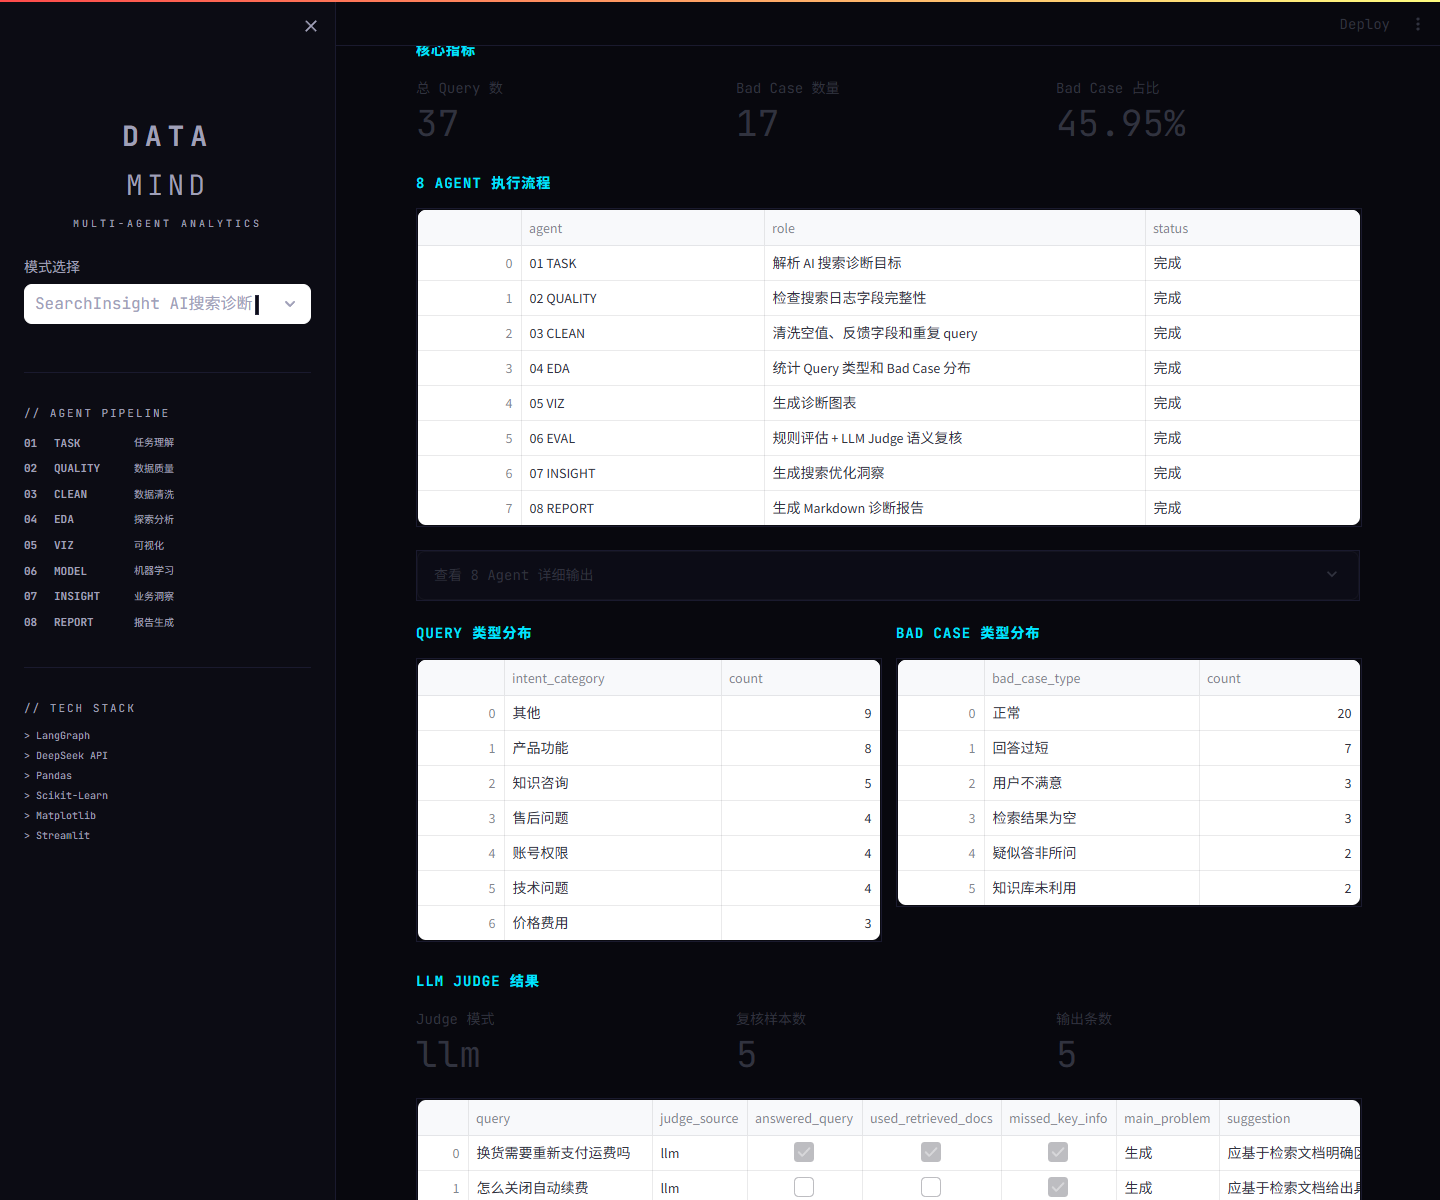
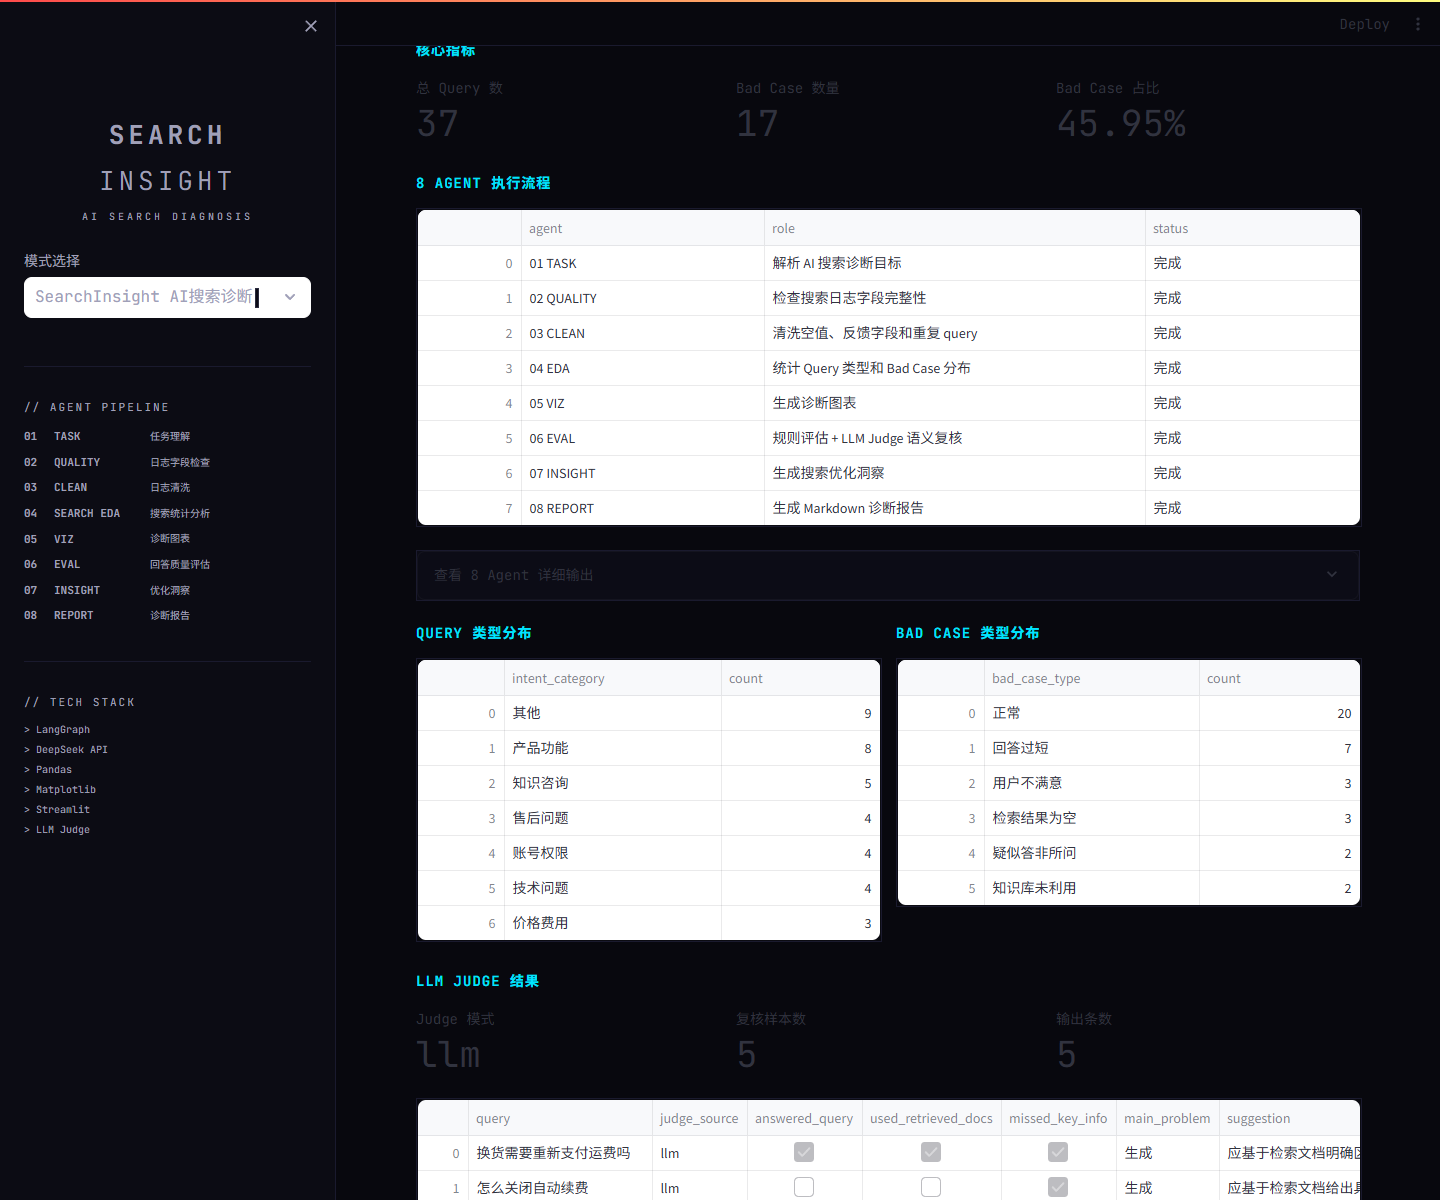
Clean up SearchInsight presentation and README

diff --git a/app.py b/app.py
@@ -266,7 +266,7 @@ hr {
 # ============================================================
 def render_searchinsight_page():
     """Render the minimal SearchInsight diagnosis page."""
-    st.title("SearchInsight：基于 Multi-Agent 的 AI搜索效果诊断与优化平台")
+    st.title("SearchInsight：基于 Multi-Agent 工作流的 AI搜索效果诊断与优化平台")
     st.write(
         "上传 AI 搜索日志后，系统会通过 8 Agent 流程完成字段校验、日志清洗、Query 分类、"
         "Bad Case 识别、图表生成、LLM Judge 复核和 Markdown 诊断报告。"
@@ -433,19 +433,19 @@ with st.sidebar:
 
     agents_info = [
         ("01", "TASK", "任务理解"),
-        ("02", "QUALITY", "数据质量"),
-        ("03", "CLEAN", "数据清洗"),
-        ("04", "EDA", "探索分析"),
-        ("05", "VIZ", "可视化"),
-        ("06", "MODEL", "机器学习"),
-        ("07", "INSIGHT", "业务洞察"),
-        ("08", "REPORT", "报告生成"),
+        ("02", "QUALITY", "日志字段检查"),
+        ("03", "CLEAN", "日志清洗"),
+        ("04", "SEARCH EDA", "搜索统计分析"),
+        ("05", "VIZ", "诊断图表"),
+        ("06", "EVAL", "回答质量评估"),
+        ("07", "INSIGHT", "优化洞察"),
+        ("08", "REPORT", "诊断报告"),
     ]
     for num, abbr, name in agents_info:
         st.markdown(f"""
         <div style="display:flex; align-items:center; gap:10px; padding:4px 0; font-size:11px;">
             <span style="color:#00e5ff; font-weight:700; min-width:20px;">{num}</span>
-            <span style="color:#a0a0b8; font-weight:600; min-width:70px;">{abbr}</span>
+            <span style="color:#a0a0b8; font-weight:600; min-width:86px;">{abbr}</span>
             <span style="color:#5a5a6a; font-size:10px;">{name}</span>
         </div>
         """, unsafe_allow_html=True)
@@ -453,7 +453,7 @@ with st.sidebar:
     st.markdown("<hr style='border-color:#1a1a2e;'>", unsafe_allow_html=True)
 
     st.markdown('<div style="font-size:11px; color:#7c4dff; letter-spacing:2px; margin-bottom:8px;">// TECH STACK</div>', unsafe_allow_html=True)
-    for tech in ["LangGraph", "DeepSeek API", "Pandas", "Scikit-Learn", "Matplotlib", "Streamlit"]:
+    for tech in ["LangGraph", "DeepSeek API", "Pandas", "Matplotlib", "Streamlit", "LLM Judge"]:
         st.markdown(f'<div style="color:#5a5a6a; font-size:10px; padding:2px 0;">&gt; {tech}</div>', unsafe_allow_html=True)
 
 # ============================================================
@@ -466,10 +466,10 @@ if "SearchInsight" in app_mode:
 st.markdown("""
 <div style="margin-bottom: 24px;">
     <div style="font-size:36px; font-weight:700; color:#e8e8f8; letter-spacing:6px;">
-        DATA<span style="color:#00e5ff;">MIND</span>
+        SEARCH<span style="color:#00e5ff;">INSIGHT</span>
     </div>
     <div style="font-size:12px; color:#4a4a6a; letter-spacing:3px; margin-top:4px;">
-        MULTI-AGENT DATA ANALYSIS PLATFORM // LANGGRAPH + DEEPSEEK
+        AI SEARCH QUALITY DIAGNOSIS PLATFORM // LANGGRAPH + LLM JUDGE
     </div>
 </div>
 """, unsafe_allow_html=True)
@@ -522,7 +522,7 @@ with col2:
     st.markdown('<div style="font-size:11px; color:#00e5ff; letter-spacing:2px; margin-bottom:8px;">02 // ANALYSIS QUERY</div>', unsafe_allow_html=True)
     user_query = st.text_area(
         "query",
-        placeholder="> 分析用户消费行为，找出高价值客户画像\n> 按城市和品类分析订单分布，进行客户分群\n> 预测客户流失风险并给出干预建议\n> 探索销售额的驱动因素",
+        placeholder="> 请分析这批 AI 搜索日志，找出 Query 类型分布、Bad Case 原因和知识库未利用问题\n> 请重点关注用户不满意、检索为空、疑似答非所问的样本\n> 请生成知识库补充、Prompt 优化和检索规则优化建议",
         height=130,
         label_visibility="collapsed"
     )
@@ -559,7 +559,7 @@ if run_analysis:
         "Agent 3:": (2, 37, "03 CLEAN"),
         "Agent 4:": (3, 50, "04 EDA"),
         "Agent 5:": (4, 62, "05 VIZ"),
-        "Agent 6:": (5, 75, "06 MODEL"),
+        "Agent 6:": (5, 75, "06 EVAL"),
         "Agent 7:": (6, 87, "07 INSIGHT"),
         "Agent 8:": (7, 100, "08 REPORT"),
     }
@@ -656,7 +656,7 @@ if run_analysis:
                 ("02 DATA QUALITY", final_state.get("quality_report", {})),
                 ("03 DATA CLEANING", final_state.get("cleaning_report", {})),
                 ("04 EDA RESULT", final_state.get("eda_result", {})),
-                ("05 MODEL RESULT", final_state.get("model_result", {})),
+                ("05 EVAL RESULT", final_state.get("model_result", {})),
             ]
             for title, data in sections:
                 with st.expander(title):

diff --git a/README.md b/README.md
@@ -111,8 +111,6 @@ streamlit run app.py
 ### 诊断报告
 ![report](docs/assets/report.png)
 
-> 截图文件可后续手动放入 `docs/assets/`。
-
 ## 输出内容
 
 项目会输出：
@@ -125,6 +123,10 @@ streamlit run app.py
 - 知识库补充建议
 - Prompt 优化建议
 - Markdown 诊断报告
+
+## 如何接入已有 AI 搜索 / RAG 系统
+
+SearchInsight 不替代原有 RAG 问答链路，而是作为质量诊断层接在问答系统后面。原系统每次问答产生 `query`、`answer`、`retrieved_docs`、`user_feedback` 等日志后，可以定期导出为 CSV/Excel，交由 SearchInsight 分析 Bad Case 类型、知识库未利用问题和 Prompt 优化方向，从而辅助团队持续改进检索、知识库和回答生成效果。
 
 ## 项目结构
 
